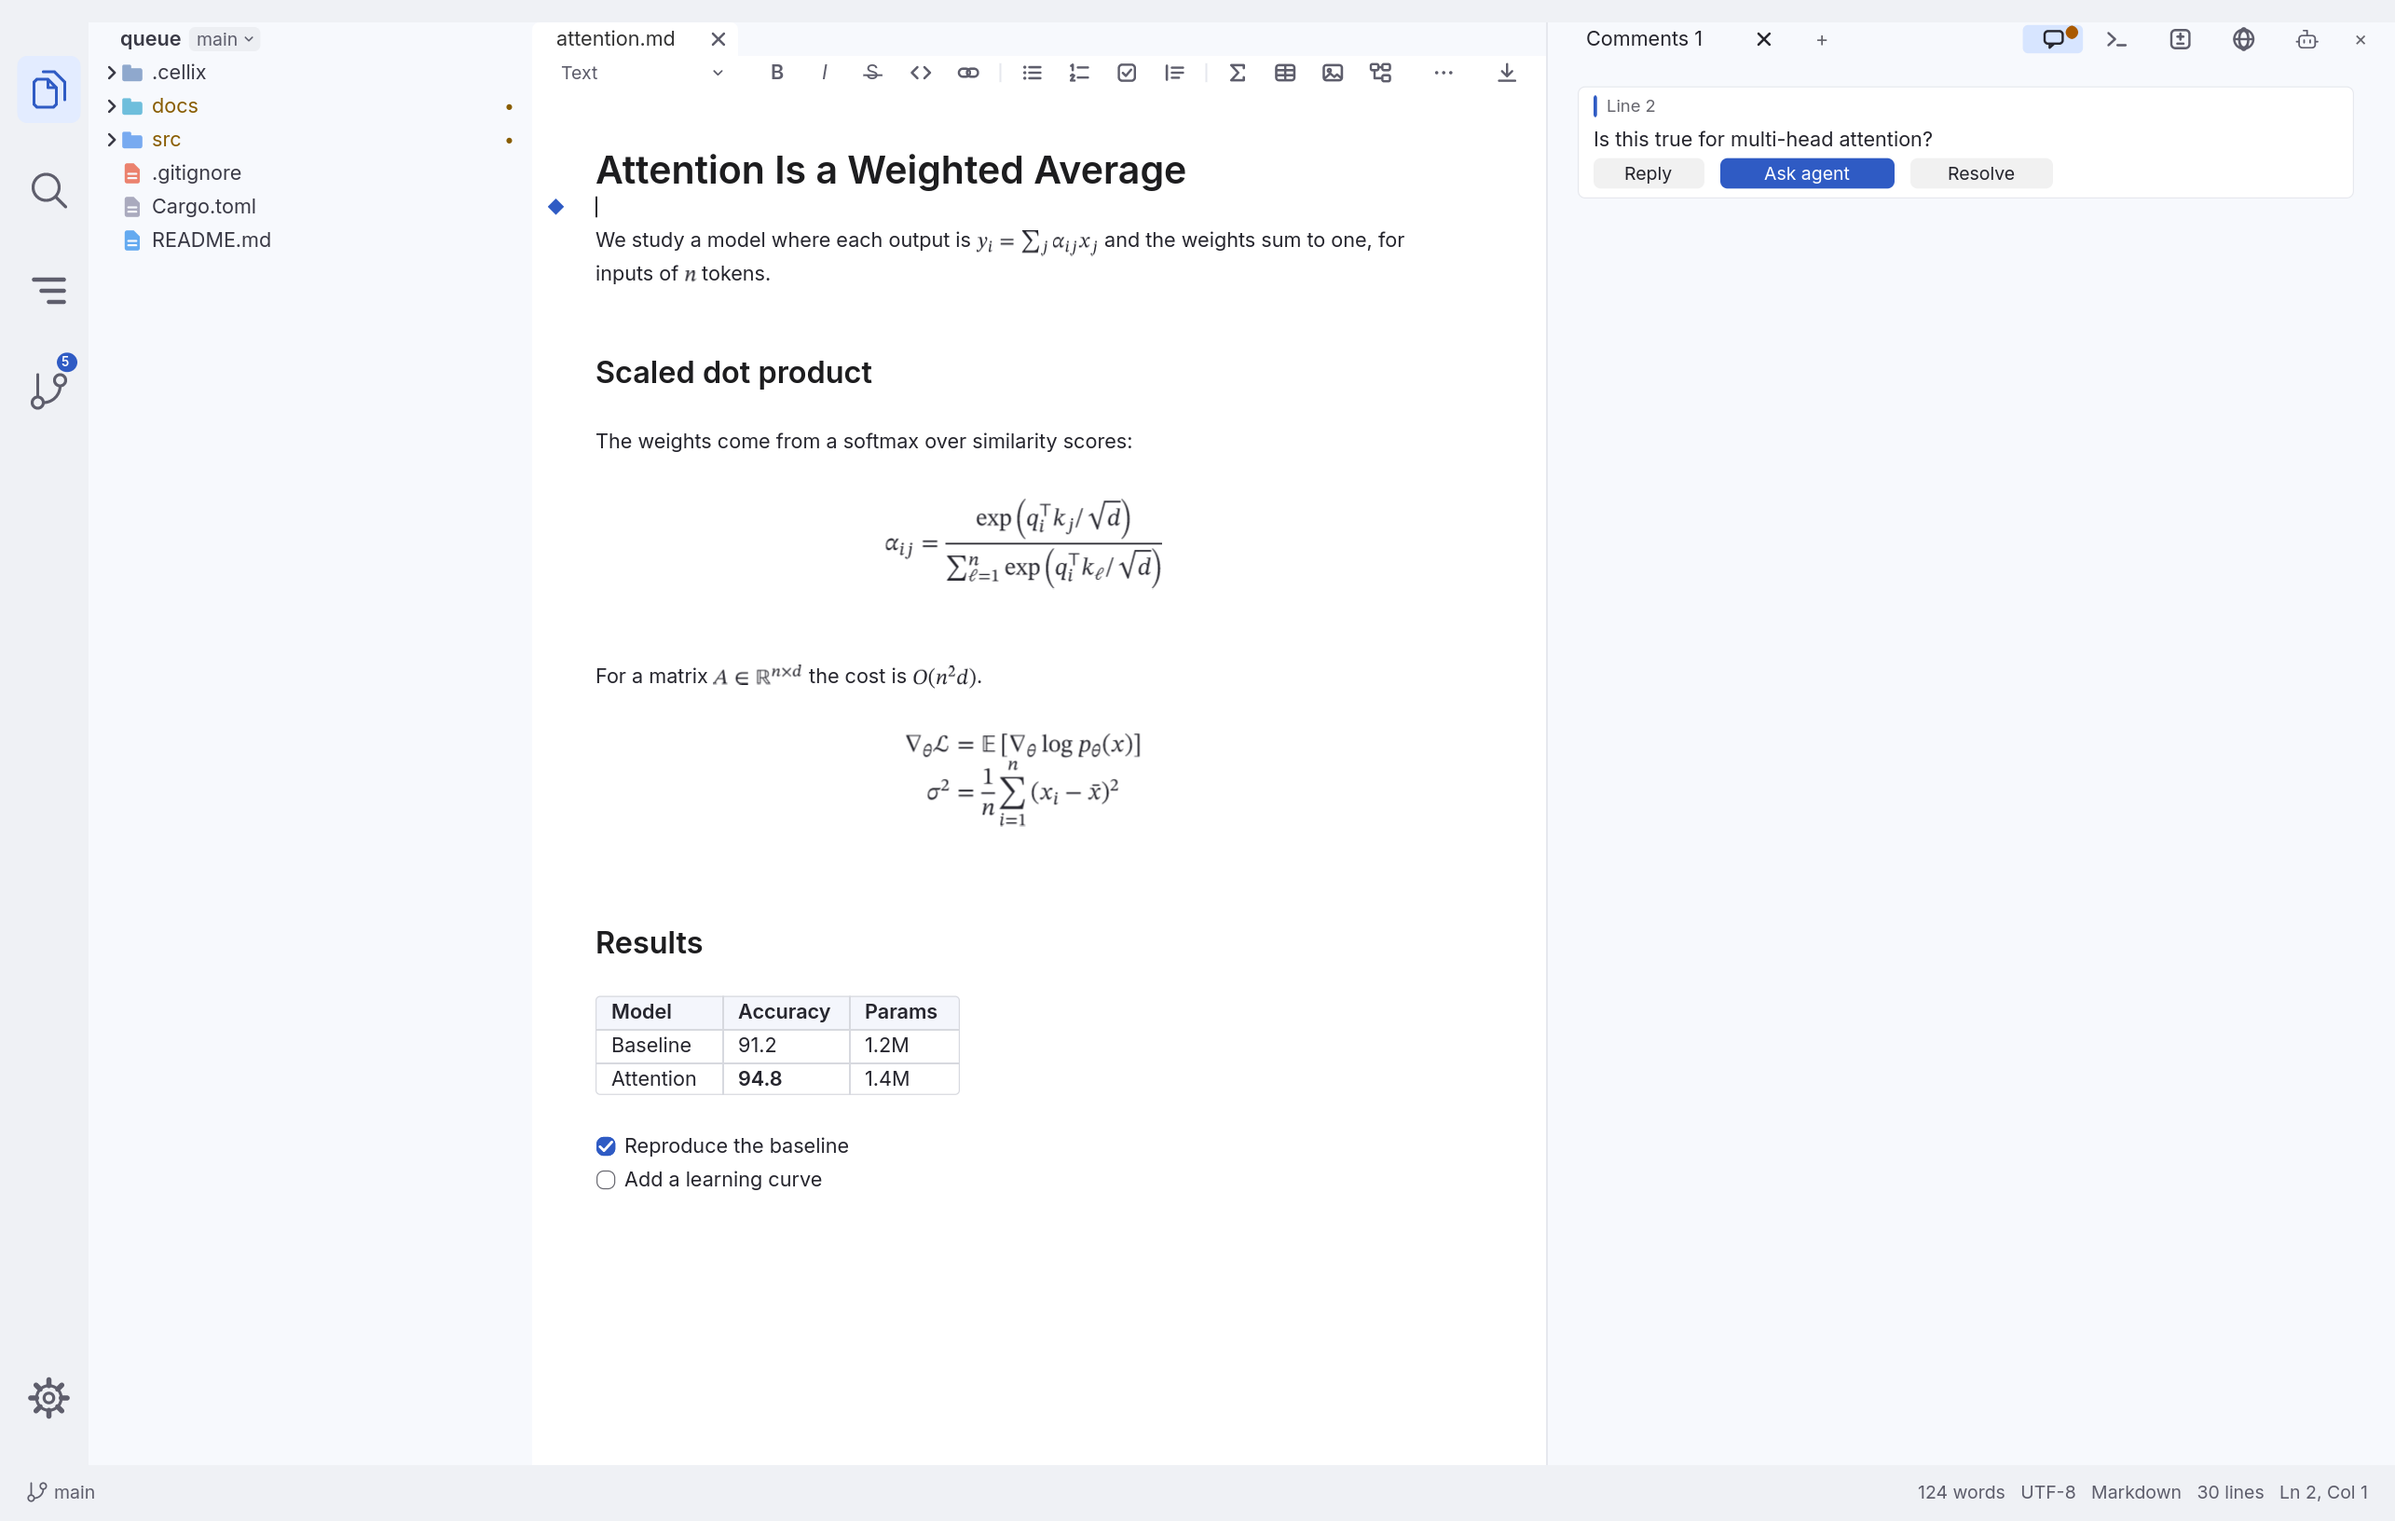
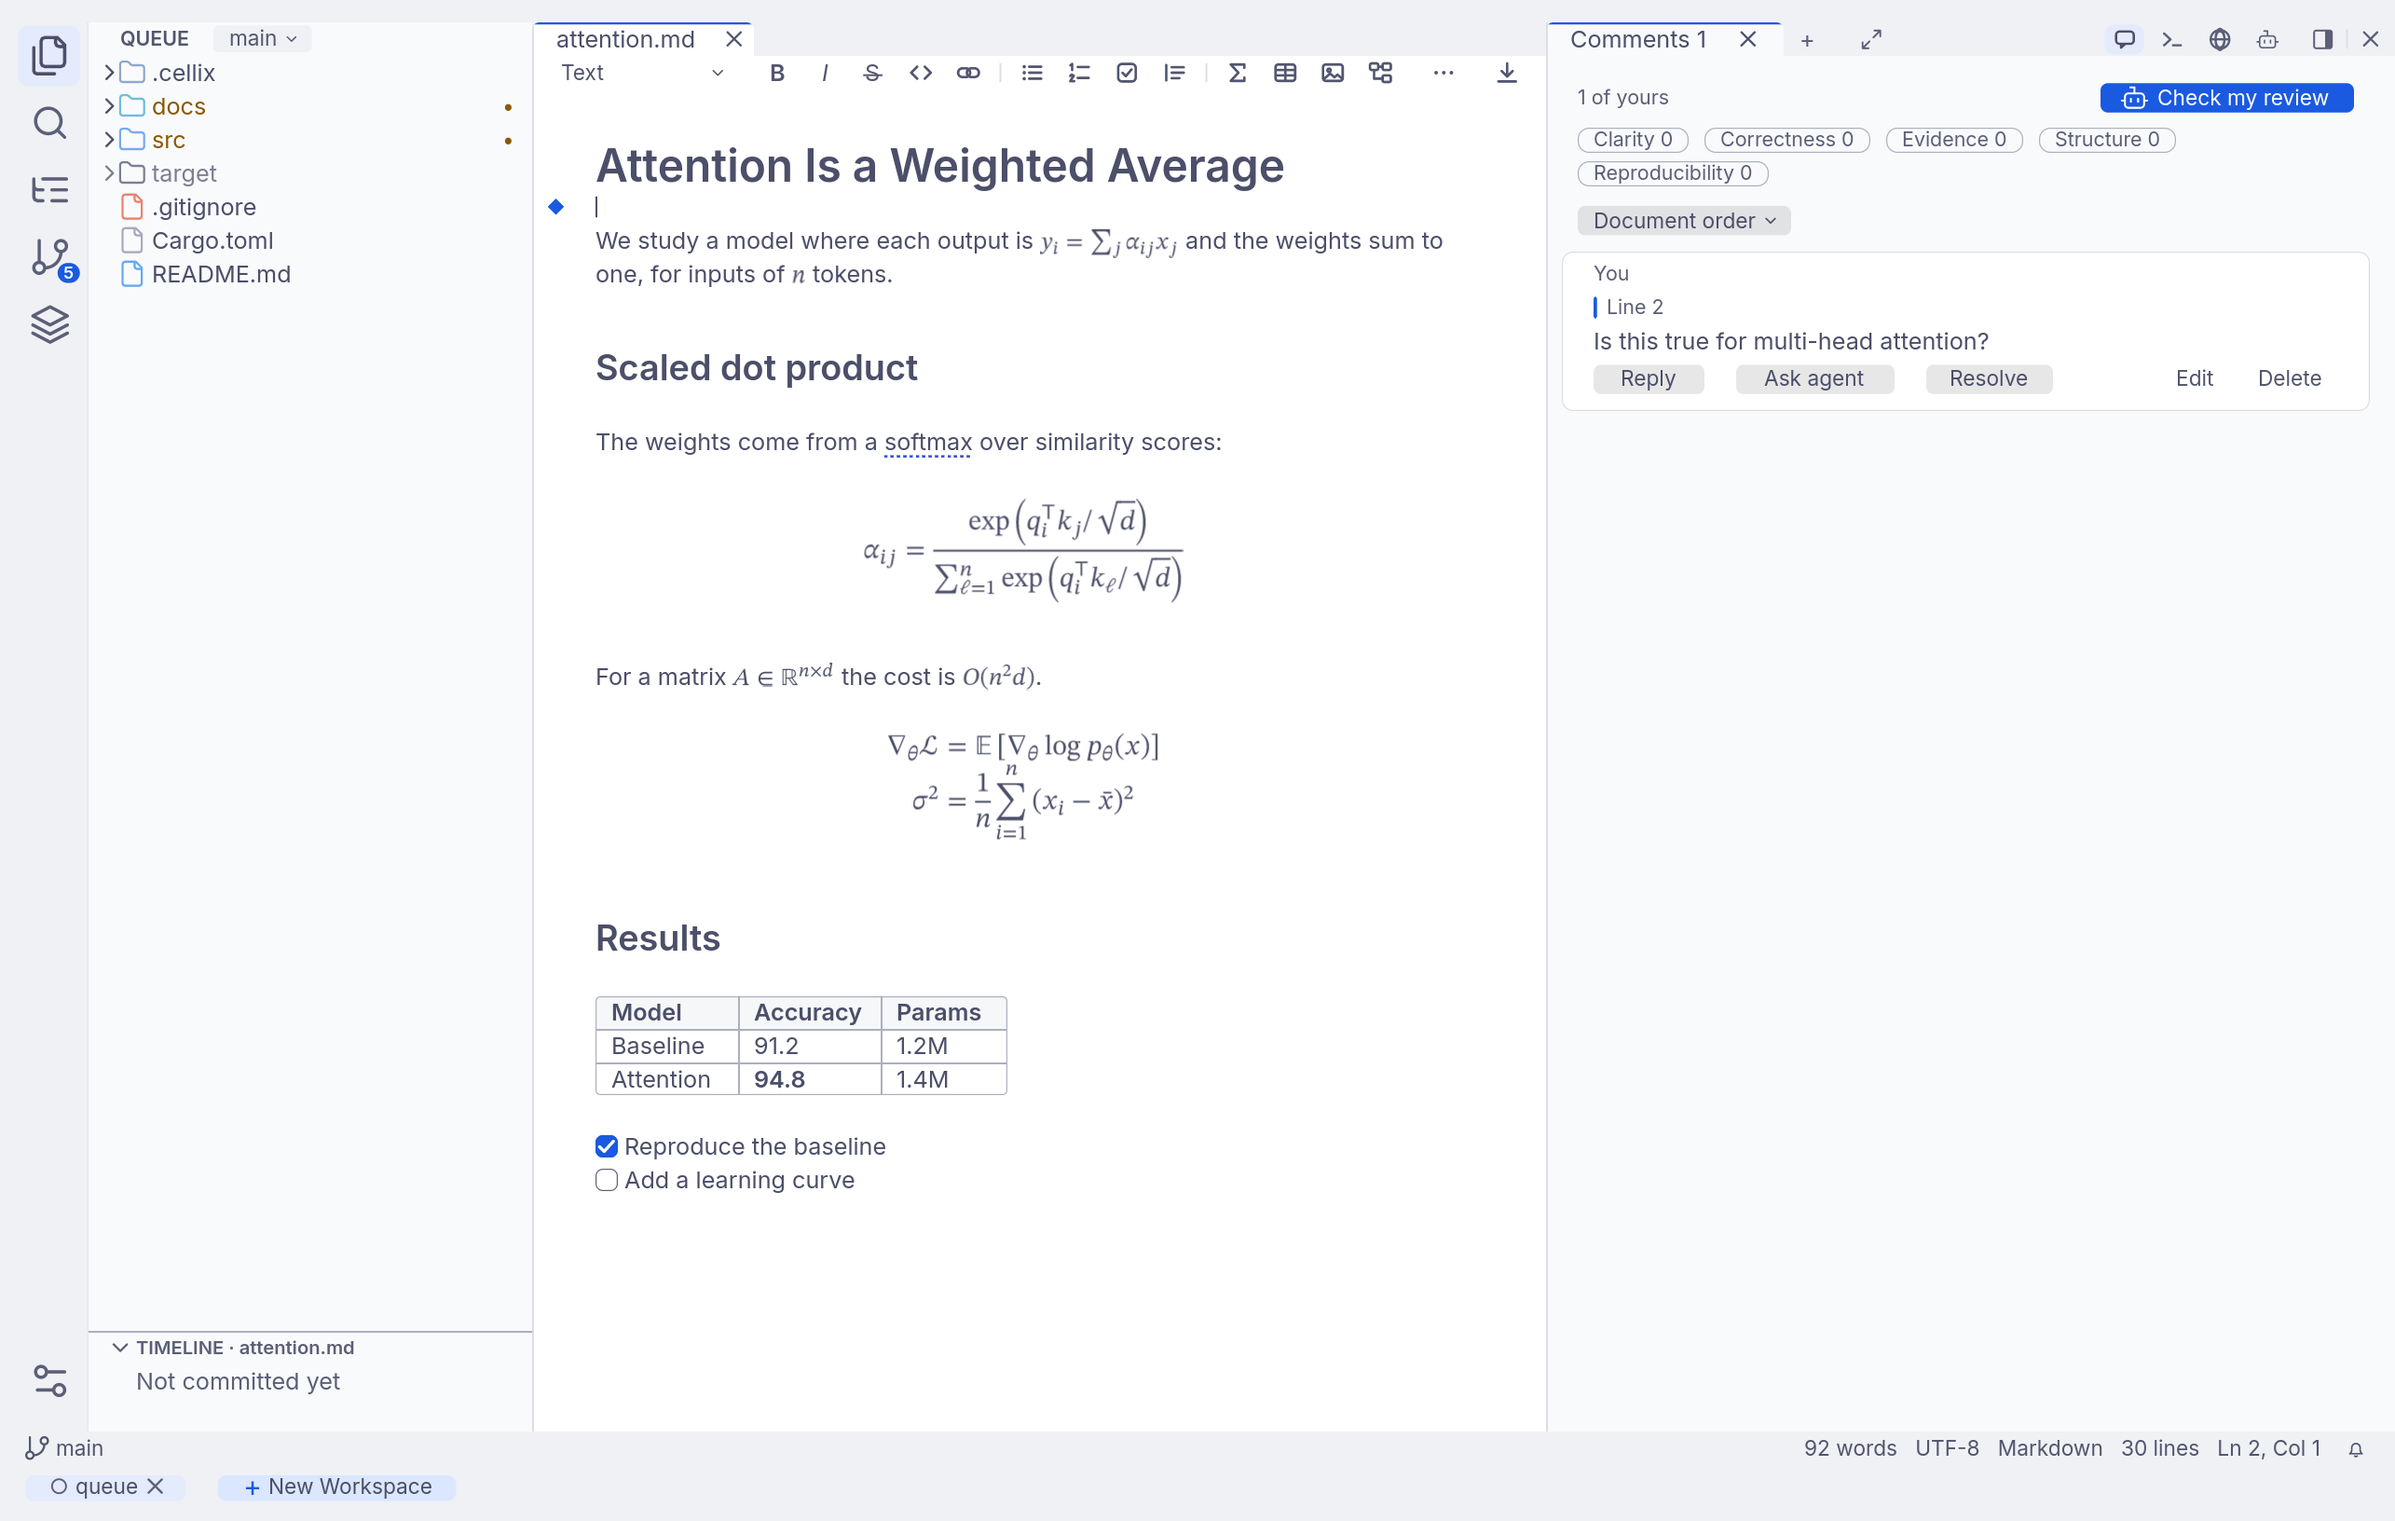
Release 0.9.2
What the user sent after 0.9.1 and what it led to: the install card's room and its buttons under the pointer; words and icons at VS Code's sizes, 13 pt words in a terminal set to 14, with every box one row tall sized for them; a tall formula's row, Agent Context's checks and names; and the side pane taking the window and being dragged where Cellix is narrow, as inside Claude Code. The tab rows stay one row tall, which the user left to be decided. The README's three pictures of Cellix on its own are this version's.

diff --git a/docs/PROGRESS.md b/docs/PROGRESS.md
@@ -2320,3 +2320,11 @@ Inside Claude Code Cellix is some 85 to 110 columns wide, and its side pane open
 - Left from that review: with a view's tab in front (`167-pane-tabs-cut-light`) the button stands between a cut name and the icons with no tab's body beside it, and reads as a fifth icon; a hairline before the icons would settle it. A cut name's chip under the pointer ends 2 px from the tab in front. A hugging tab's width depends on a few pixels of its name, so "Comments" behind "Terminal" is "Comm…" at 36 px rows and "Com…" at 37. Not pictured: either side at 24 columns, three tabs cut, the button under the pointer in a cut row.
 - Not tried inside a live Claude Code: the click and the drag arrive there as pointer events the mod forwards (`pane-input.tsx`), and `pane::translate` turns a move with a button held into a drag, which its own test covers; whether Claude Code delivers them as its types say wasn't watched.
 - Next: the user's answers on a push or release and on two-row tab rows.
+
+## Release 0.9.2 (2026-11-16)
+
+The user said: "You decide for me the best approach and then push/release changes." It holds the five commits since 0.9.1: the install card's room, a quiet button under the pointer, VS Code's sizes, what larger words pushed out of view, and the side pane taking the window and being dragged where Cellix is narrow.
+
+- The choice left to make was whether the two tab rows should be two rows tall so the icons in them could be 16 pt where they're 13. They stay one row: it would cost a row of the file in each pane for 3 pt, at 13 pt the icons are the words' own size, and a terminal without pictures would spend the row on nothing. DESIGN.md's Look has it.
+- README says the sizes where it says what Cellix draws with, and the side pane's ⤢ and edge under "Beside an agent" and "Inside Claude Code". Its three pictures of Cellix on its own are this version's, from the tour's `14-agents`, `50-comments` and `13-source-diff`, with the machine's name at the end of the workspaces bar painted out in the bar's colour: it's the user's, and the README is public. The two pictures of Cellix inside Claude Code are still of the old sizes; they need a live Claude Code to retake.
+- Unverified in a real terminal: all five commits. The side pane's fix wasn't tried inside a live Claude Code.

diff --git a/docs/DESIGN.md b/docs/DESIGN.md
@@ -457,7 +457,12 @@ code. Small words, a button's, a chip's and both bars', are nine tenths of that,
 heading four fifths. A page's words are the interface's, so they grew with it. An icon beside a
 name is 16 pt (`GLYPH`). An icon in a chip at the top right is 13 pt: VS Code's are 16 in a bar
 35 pt tall, this bar is one row, and a larger icon would stand against its chip, which keeps 3 px
-over and under the icon's box as VS Code's hover chips do. A rail icon is 24 pt, on a rail five
+over and under the icon's box as VS Code's hover chips do. Making the two tab rows two rows
+tall, which would hold 16 pt, was weighed and left (2026-11-16, the user asking for the choice
+to be made): it costs a row of the file in each pane for 3 pt, in a window that has forty rows
+and inside Claude Code often fewer; at 13 pt the icons are the words' own size and read at a
+glance; and a terminal without pictures would spend the row on nothing or be laid out
+differently from one with them. A rail icon is 24 pt, on a rail five
 columns wide with two rows from one icon to the next, either of which presses it; in cells the
 rail keeps its four columns. Code is the terminal's own size and didn't change. Words a sixth
 wider leave a name in the sidebar about five letters fewer before it's cut.

diff --git a/CHANGELOG.md b/CHANGELOG.md
@@ -2,7 +2,7 @@
 
 All notable changes to Cellix. Versions follow semver; each one is on the [releases page](https://github.com/quill-27f/cellix/releases).
 
-## [Unreleased]
+## [0.9.2] - 2026-11-16
 
 ### Changed
 - Words and icons are larger: the sizes VS Code has. In a terminal set to 14 pt, words are 13 pt where they were 11, beside code at 14. An icon beside a name is 16 pt where it was 13, the icons at the top right are 13 pt where they were 10, and the rail's are 24 pt where they were 15, on a rail one column wider with two rows to an icon. A page's words grew with the rest. Code keeps the terminal's own size. Words a sixth wider mean a long name in the sidebar is cut a few letters sooner.

diff --git a/README.md b/README.md
@@ -87,7 +87,8 @@ The pane needs what only Claude Code offers. With Codex and Gemini CLI, run Cell
 them, or let it run them, as under [On its own](#on-its-own).
 
 It looks its best in a terminal with Kitty graphics, such as Ghostty, Kitty or WezTerm, where it
-draws real pixels. Anywhere else it falls back to text cells.
+draws real pixels. Anywhere else it falls back to text cells. Words and icons are the sizes VS Code's
+are: in a terminal set to 14 pt, words are 13 pt and icons 16, beside code at the terminal's own 14.
 
 ## Write documents with your agent
 
